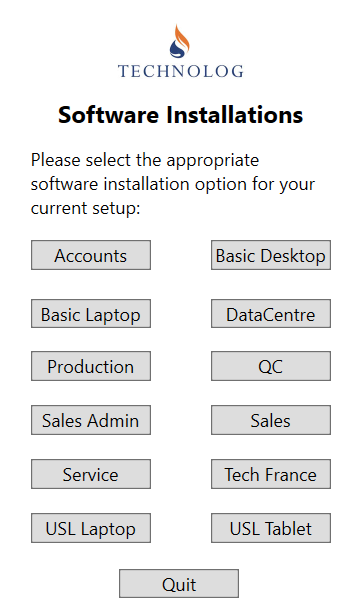
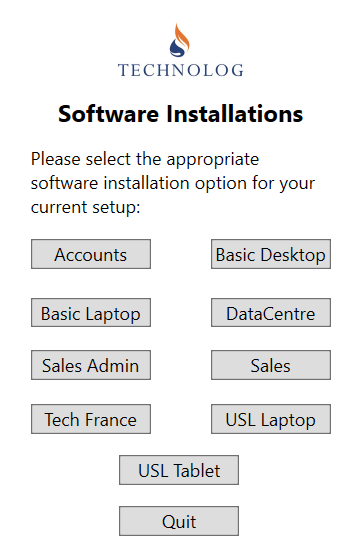
Changes for v4.2 release
+ Updated CHANGES.md to feature v4.2 details
+ Updated README.md so v4.2 is the latest release
+ Updated GUI sample to reflect changes made with the release

diff --git a/README.md b/README.md
@@ -12,8 +12,12 @@ Once the PowerShell script is ran the user will be presented with the below form
 
 ## Latest Release
 
-- v4.1 
-    * Fixed issue what was causing the 'Get-Date' command in the error log to return incorrectly
+- v4.2
+    * Removed 'Production' from all elements of script due to new software control measures
+    * Removed 'Service' from all elements of script due to new software control measures
+    * Removed 'QC' from all elements of script due to new software control measures
+    * Synopsis within script now features links to Github project
+    * Version history removed from script in favour of Github links
 
 For a full list of releases please check the [Change Log](CHANGES.md)
 

diff --git a/CHANGES.md b/CHANGES.md
@@ -1,4 +1,10 @@
 # Change Log
+- v4.2 (Released: 09/10/2020)
+    * Removed 'Production' from all elements of script due to new software control measures
+    * Removed 'Service' from all elements of script due to new software control measures
+    * Removed 'QC' from all elements of script due to new software control measures
+    * Synopsis within script now features links to Github project
+    * Version history removed from script in favour of Github links
 - v4.1 (Released: 29/09/2020)
     * Fixed issue what was causing the 'Get-Date' command in the error log to return incorrectly
 - v4.0 (Released: 19/09/2020)
